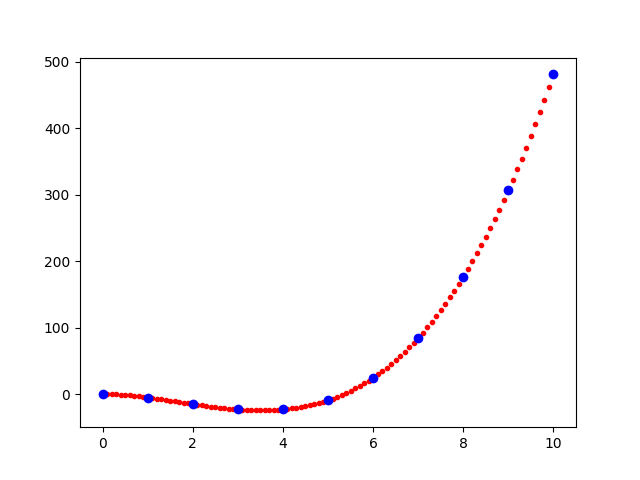
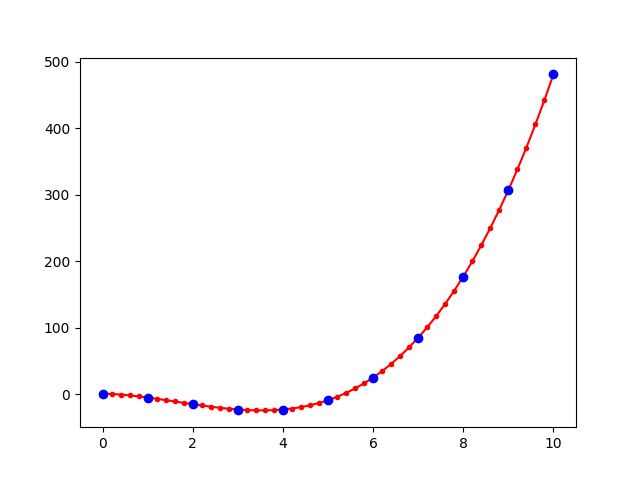
up

diff --git a/src/apply/slemat/sle-mat.py b/src/apply/slemat/sle-mat.py
@@ -1,63 +1,48 @@
-x = [i for i in range(0, 11)]
-#print(x)
-y = [1, -5, -15, -23, -23, -9, 25, 85, 177, 307, 481]
-#print(y)
+# import necessary packages
+import numpy as np
+import matplotlib.pyplot as plt
 
-def elema(p, q, x, y):
+# create element of A matrix
+def elemA(p, q, x, y):
   sum = 0
   for xi in x:
     sum += xi**(p+q-2)
   return sum
-#print(elema(1, 2, x, y))
 
-def elemb(p, q, x, y):
+# create element of B matrix
+def elemB(p, q, x, y):
   sum = 0
   for i in range(len(x)):
     sum += y[i] * x[i]**(p+q-2)
   return sum
-#print(elemb(1, 1, x, y))
-#print(sum(y))
 
+# create A matrix
 def matrixA(M, x, y):
   mat = []
   for p in range(M+1):
     row = []
     for q in range(M+1):
       # Python list begins form 0
-      apq = elema(p+1, q+1, x, y)
+      apq = elemA(p+1, q+1, x, y)
       row.append(apq)
     mat.append(row)
   return mat
 
+# create B matrix
 def matrixB(M, x, y):
   mat = []
   for p in range(M+1):
-    bpq = elemb(p+1, 1, x, y)
+    bpq = elemB(p+1, 1, x, y)
     mat.append(bpq)
   return mat
 
+# print matrix or list of list
 def printMatrix(mat):
   for row in mat:
     print(row)
 
-M = 3
-matA = matrixA(M, x, y)
-#printMatrix(matA)
-
-matB = matrixB(M, x, y)
-#printMatrix(matB)
-#print(sum(y))
-
-# create Numpy array
-import numpy as np
-npA = np.array(matA)
-npB = np.array(matB)
-
-C = np.linalg.solve(npA, npB)
-#print(C)
-
-xx = [i*0.1 for i in range(101)]
-def ymodel(xx, C):
+# create predicted values using polynomial function
+def ypoly(xx, C):
   yy = []
   for x in xx:
     sum = 0 
@@ -66,13 +51,36 @@ def ymodel(xx, C):
     yy.append(sum)
   return yy
 
-yy = ymodel(xx, C)
-#print(yy)
+# create data
+x = [i for i in range(0, 11)]
+y = [1, -5, -15, -23, -23, -9, 25, 85, 177, 307, 481]
 
-import matplotlib.pyplot as plt
+# set order of polynomial function as model
+M = 3
 
-plt.plot(xx, yy, 'r.')
+# create A and B matrices
+matA = matrixA(M, x, y)
+matB = matrixB(M, x, y)
+
+# create Numpy array
+npA = np.array(matA)
+npB = np.array(matB)
+
+# solve equation AC = B
+C = np.linalg.solve(npA, npB)
+
+# display result
+print("C = ", C)
+
+# create from model, more dense than from observation
+xx = [i*0.2 for i in range(51)]
+yy = ypoly(xx, C)
+
+# plot data from observation
+plt.plot(xx, yy, 'r.-')
+
+# plot data from model
 plt.plot(x, y, 'bo')
+
+# display result
 plt.show()
-
-
